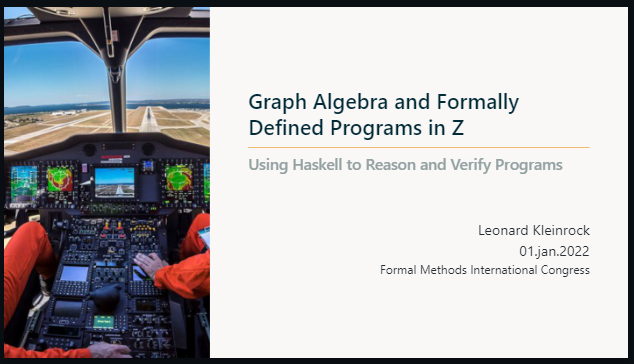
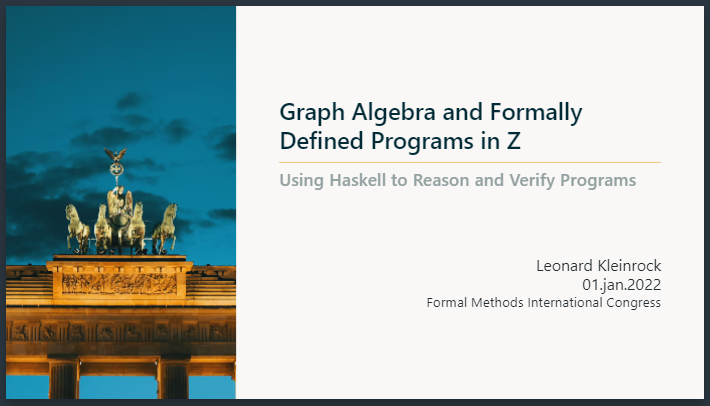
Refactoring

diff --git a/style/structure1.css b/style/structure1.css
@@ -4,7 +4,7 @@
   ============================================
     Created by Paulo Cunha
     version: 1.0
-    last update: 11.dez.2021
+    last update: 15.dez.2021
   ============================================
 
     You may use freely (MIT license) provided  
@@ -195,7 +195,7 @@ section.titlepage .title {
   font-size: var(--title-size);
   font-weight: var(--title-font-weight);
   color: var(--title-color);
-  /* border-bottom: 1px solid var(--border-color); */
+  border-bottom: 1px solid var(--border-color);
   line-height: 1.25;
   padding-bottom: 15px;
   padding-right: 20%;

diff --git a/style/socrates.css b/style/socrates.css
@@ -4,7 +4,7 @@
   ============================================
     Created by Paulo Cunha
     version: 1.0
-    last update: 11.dez.2021
+    last update: 15.dez.2021
   ============================================
 
     You may use freely (MIT license) provided  

diff --git a/style/structure2.css b/style/structure2.css
@@ -4,7 +4,7 @@
   ============================================
     Created by Paulo Cunha
     version: 1.0
-    last update: 11.dez.2021
+    last update: 15.dez.2021
   ============================================
 
     You may use freely (MIT license) provided  

diff --git a/style/schema1.css b/style/schema1.css
@@ -1,5 +1,7 @@
 /* @theme schema1 */
 
+/* Last update: 15.dez.2021 */
+
 /* -------------------- ROOT ----------------------------------*/
 :root {
     

diff --git a/style/schema2.css b/style/schema2.css
@@ -1,5 +1,7 @@
 /* @theme schema2 */
 
+/* Last update: 15.dez.2021 */
+
 /* -------------------- ROOT ----------------------------------*/
 :root {
     

diff --git a/style/schema3.css b/style/schema3.css
@@ -1,5 +1,7 @@
 /* @theme schema3 */
 
+/* Last update: 15.dez.2021 */
+
 /* -------------------- ROOT ----------------------------------*/
 :root {
     

diff --git a/example-plato.md b/example-plato.md
@@ -5,7 +5,7 @@ description : This is an example of how to use my themes.
 keywords    : Marp, Slides, Themes.
 marp        : true
 paginate    : true
-theme       : plato
+theme       : plato 
 ---
 
 
@@ -35,7 +35,7 @@ theme       : plato
 
 
 <!-- _class: titlepage -->
-![bg left:33%](https://images.unsplash.com/photo-1502675135487-e971002a6adb?ixlib=rb-1.2.1&ixid=MnwxMjA3fDB8MHxwaG90by1wYWdlfHx8fGVufDB8fHx8&auto=format&fit=crop&w=688&q=80)
+![bg left:33%](https://images.unsplash.com/photo-1591865986097-77712322981b?ixlib=rb-1.2.1&ixid=MnwxMjA3fDB8MHxwaG90by1wYWdlfHx8fGVufDB8fHx8&auto=format&fit=crop&w=711&q=80)
 
 <div class="title">Graph Algebra and Formally Defined Programs in Z</div>
 <div class="subtitle">Using Haskell to Reason and   Verify Programs</div>
@@ -46,7 +46,7 @@ theme       : plato
 ---
 
 <!-- _class: titlepage -->
-![bg left:33%](https://helihub-wp.s3.amazonaws.com/wp-content/uploads/2021/07/20210705gw-Helionix.jpg)
+
 
 # Graph Algebra and Formally Defined Programs in Z
 ## Using Haskell to Reason and  Verify Programs

diff --git a/example-hegel.md b/example-hegel.md
@@ -35,7 +35,8 @@ theme       : hegel
 
 
 <!-- _class: titlepage -->
-![bg left:33%](https://images.unsplash.com/photo-1502675135487-e971002a6adb?ixlib=rb-1.2.1&ixid=MnwxMjA3fDB8MHxwaG90by1wYWdlfHx8fGVufDB8fHx8&auto=format&fit=crop&w=688&q=80)
+![bg left:33%](https://images.unsplash.com/photo-1558117735-790d8562fe92?ixlib=rb-1.2.1&ixid=MnwxMjA3fDB8MHxwaG90by1wYWdlfHx8fGVufDB8fHx8&auto=format&fit=crop&w=1171&q=80)
+
 
 <div class="title">Graph Algebra and Formally Defined Programs in Z</div>
 <div class="subtitle">Using Haskell to Reason and   Verify Programs</div>
@@ -46,7 +47,6 @@ theme       : hegel
 ---
 
 <!-- _class: titlepage -->
-![bg left:33%](https://helihub-wp.s3.amazonaws.com/wp-content/uploads/2021/07/20210705gw-Helionix.jpg)
 
 # Graph Algebra and Formally Defined Programs in Z
 ## Using Haskell to Reason and  Verify Programs

diff --git a/example-kant.md b/example-kant.md
@@ -35,7 +35,7 @@ theme       : kant
 
 
 <!-- _class: titlepage -->
-![bg left:33%](https://images.unsplash.com/photo-1502675135487-e971002a6adb?ixlib=rb-1.2.1&ixid=MnwxMjA3fDB8MHxwaG90by1wYWdlfHx8fGVufDB8fHx8&auto=format&fit=crop&w=688&q=80)
+![bg left:33%](https://images.unsplash.com/photo-1560914210-08431b749ff5?ixlib=rb-1.2.1&ixid=MnwxMjA3fDB8MHxwaG90by1wYWdlfHx8fGVufDB8fHx8&auto=format&fit=crop&w=1974&q=80)
 
 <div class="title">Graph Algebra and Formally Defined Programs in Z</div>
 <div class="subtitle">Using Haskell to Reason and   Verify Programs</div>
@@ -46,7 +46,6 @@ theme       : kant
 ---
 
 <!-- _class: titlepage -->
-![bg left:33%](https://helihub-wp.s3.amazonaws.com/wp-content/uploads/2021/07/20210705gw-Helionix.jpg)
 
 # Graph Algebra and Formally Defined Programs in Z
 ## Using Haskell to Reason and  Verify Programs

diff --git a/README.md b/README.md
@@ -12,13 +12,17 @@ Repository for Marp Themes created out of the desired for beauty and simplicity.
 
 
 
-# Screenshots
+# Available Themes
 
+## Socrates Theme:
+![Style: Plato](img/socrates01.png)<br>
+
+## Plato Theme:
 ![Style: Plato](img/plato01.png)<br>
-Plato style
 
+## Hegel Theme:
 ![Style: Hegel](img/hegel01.png)<br>
-Hegel style
+
 
 # Install
 Remeber to include the path to the style files (CSS files) in your `workspace.code-workspace` file in order to make them available to your slide deck.
@@ -42,7 +46,7 @@ It might look similar to:
 			"./style/schema1.css"
 			"./style/schema2.css"
 			"./style/schema3.css"
-			"./style/structure.css"
+			"./style/structure1.css"
 			"./style/structure2.css"
 		]
 	}

diff --git a/example-socrates.md b/example-socrates.md
@@ -31,9 +31,8 @@ theme       : socrates
    }  
    
 </style> 
-  
-     
 
+![bg left:33%](https://images.unsplash.com/photo-1560914210-08431b749ff5?ixlib=rb-1.2.1&ixid=MnwxMjA3fDB8MHxwaG90by1wYWdlfHx8fGVufDB8fHx8&auto=format&fit=crop&w=1974&q=80)
 <!-- _class: titlepage -->
 
 <div class="title">Graph Algebra Representation of Formally Defined Programs in Z</div>
